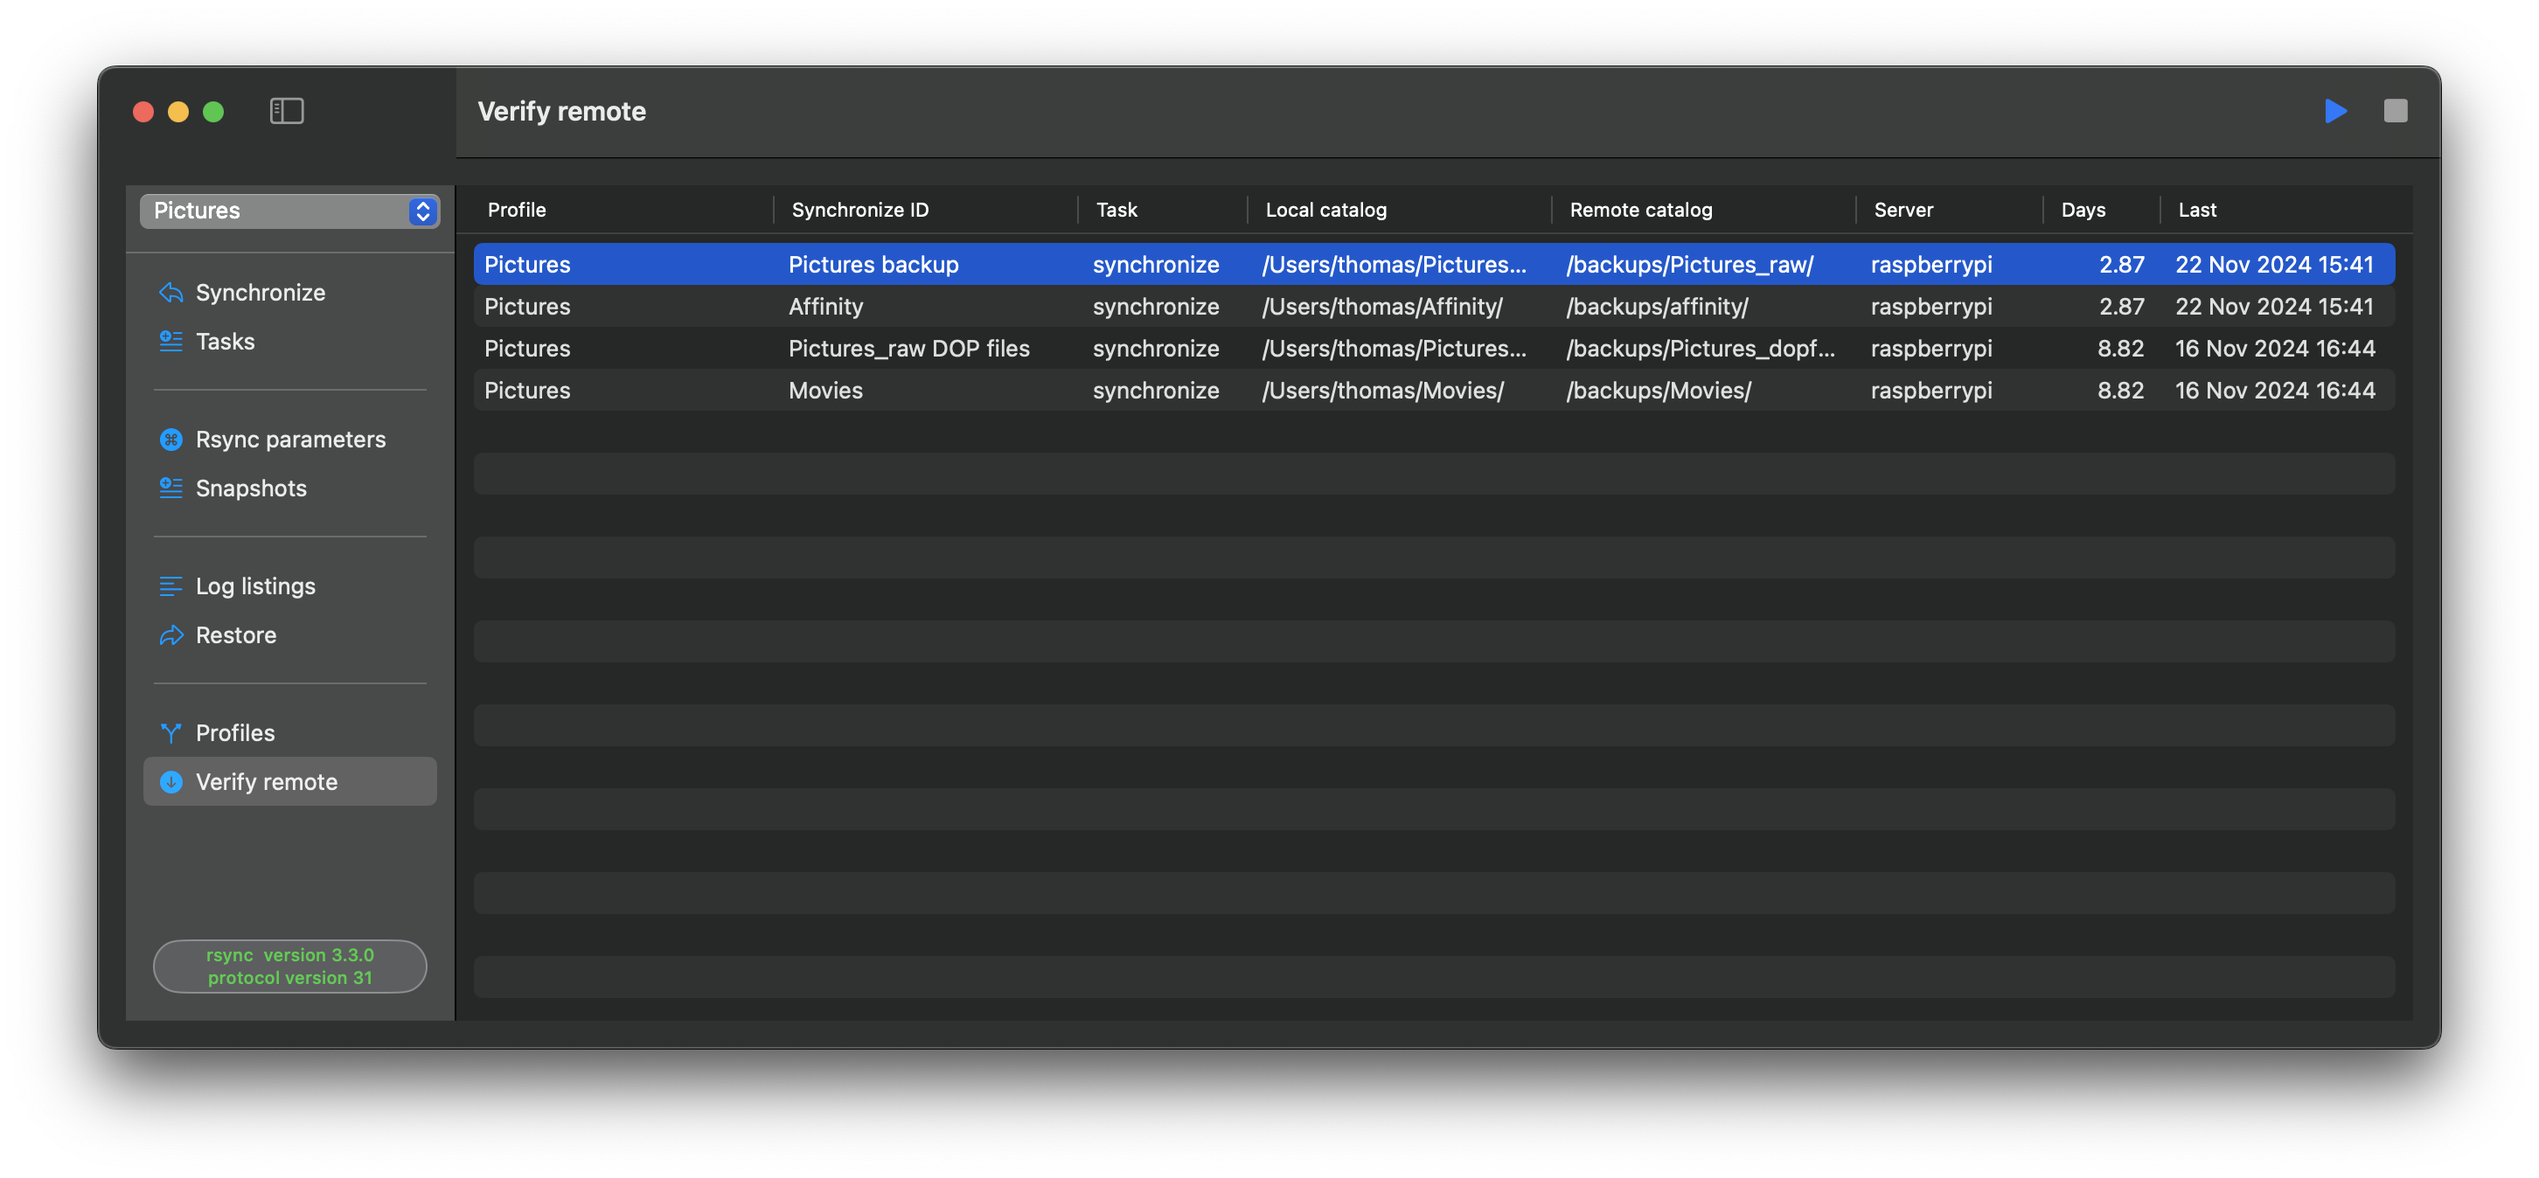
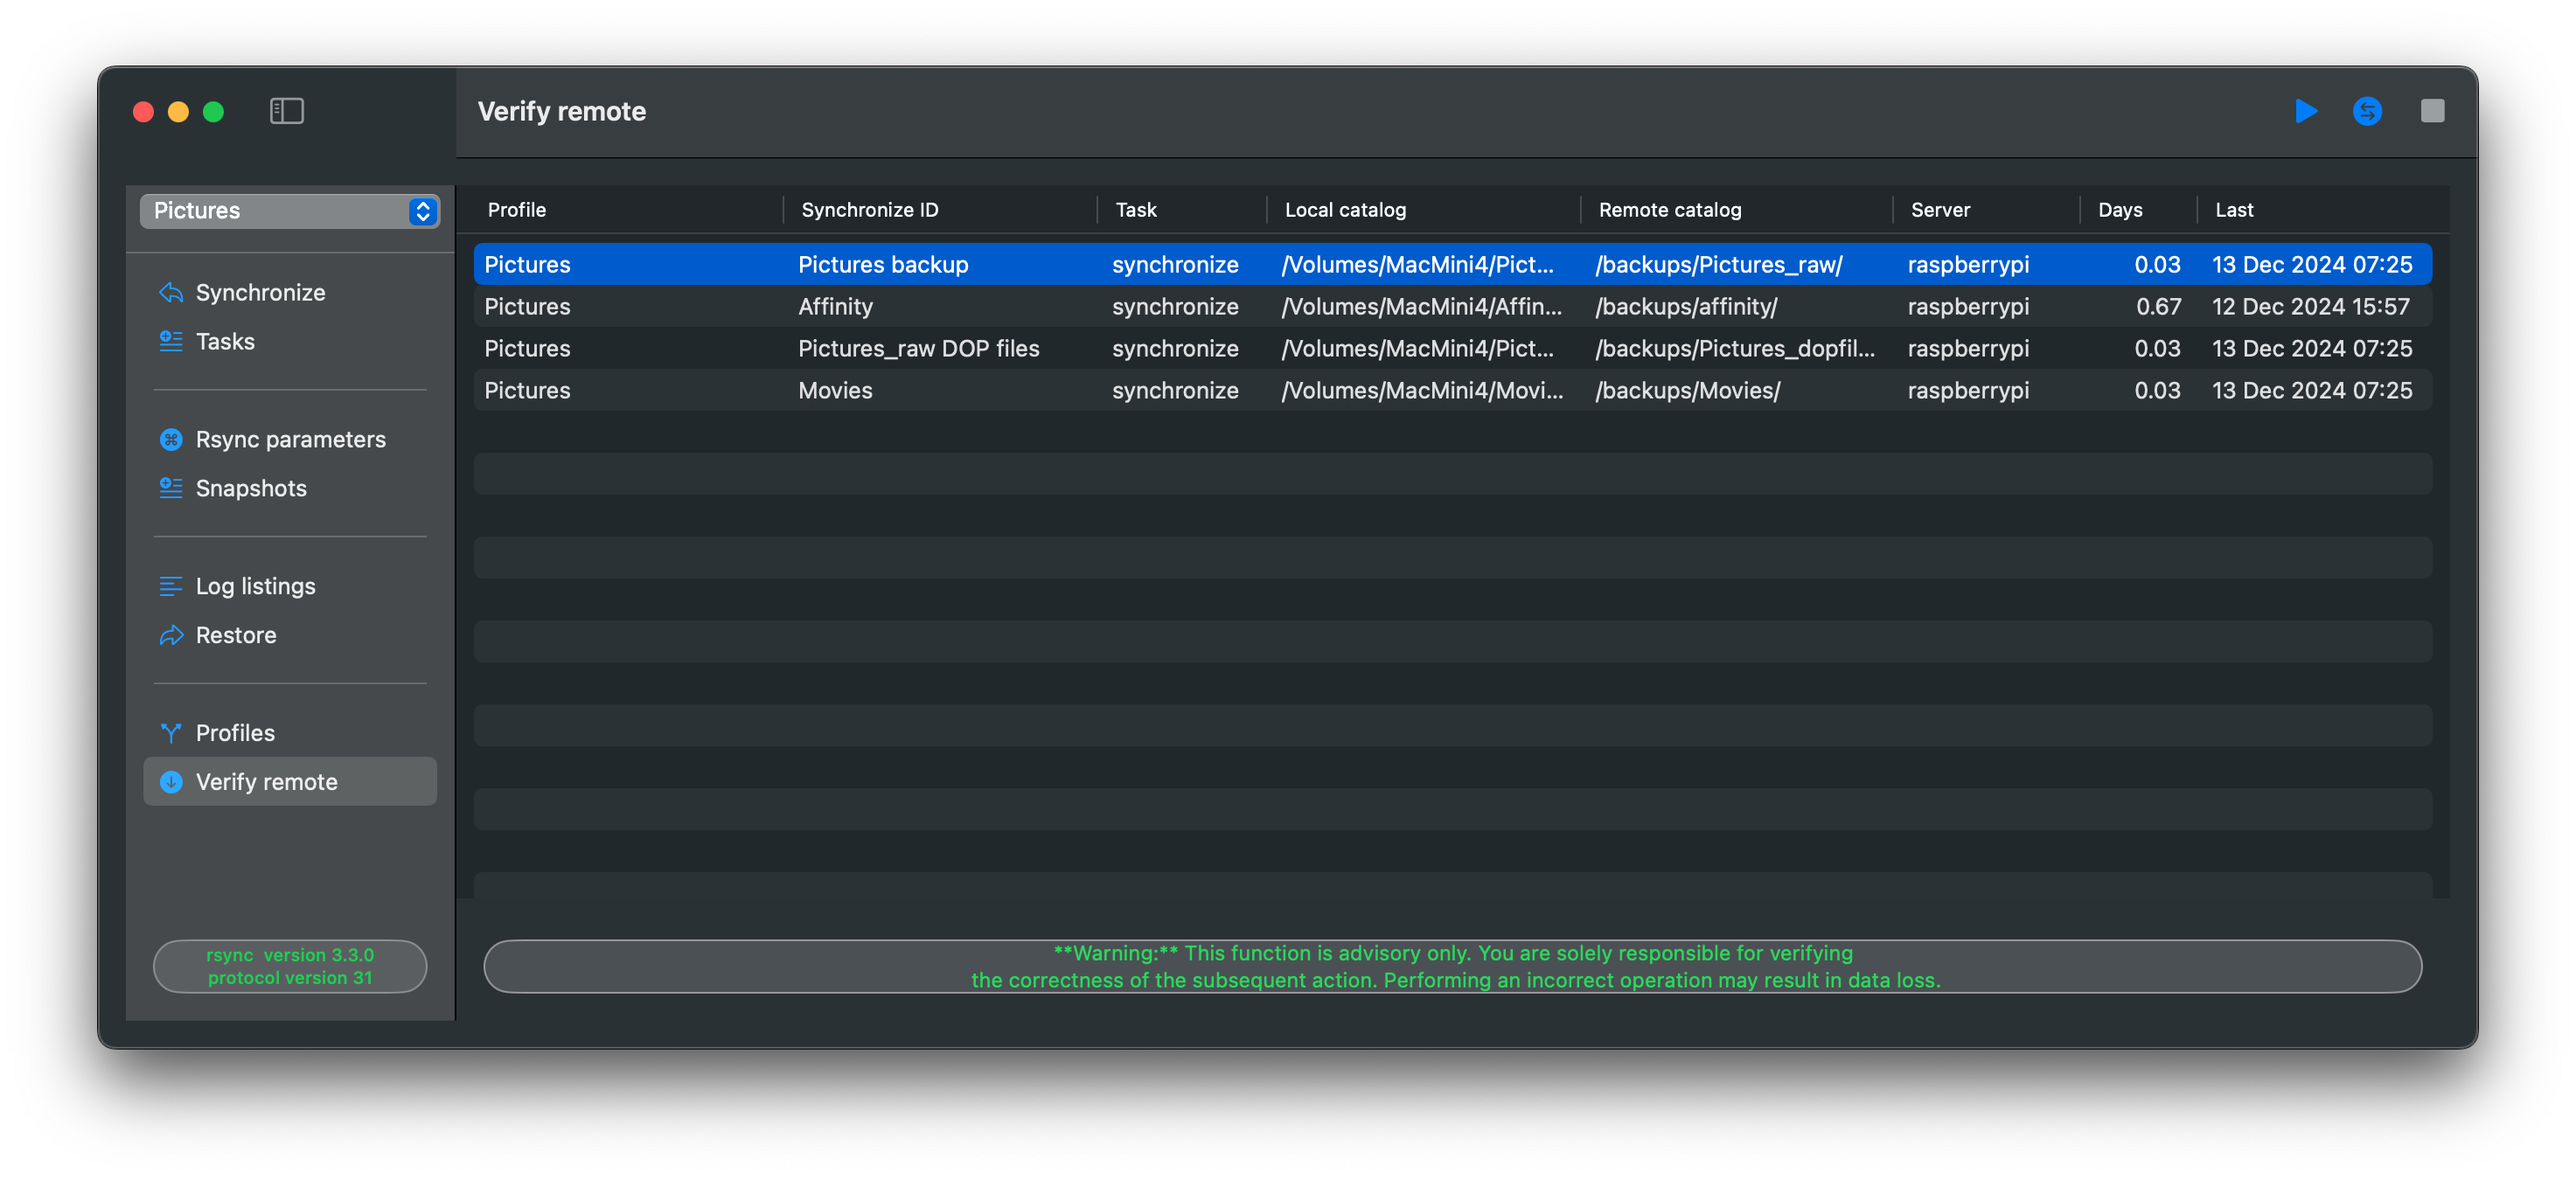
update

diff --git a/content/en/docs/VerifyRemote.md b/content/en/docs/VerifyRemote.md
@@ -6,59 +6,61 @@ tags = ["verify remote"]
 categories = ["synchronize"]
 +++
 
-**Important Note:** The user is solely responsible for determining the appropriate action. RsyncUI provides only advisory guidance, based on a rudimentary evaluation of a push and pull data comparison. It is still in development for the upcoming version 2.2.2.
+{{< alert color="warning" >}}
 
-The function is not intended to be automated. Users must verify their subsequent actions. If the remote destinations are stored on a Git server, such as GitHub or Gitea, regular `git push` and `pull` commands will suffice. Git is a superior tool for version control, but in certain situations, creating a Git repository may not be feasible, and this function may prove useful.
+The user is solely responsible for determining the appropriate action. RsyncUI provides only advisory guidance,
+based on a rudimentary evaluation of a push and pull data comparison.
+
+*It is still in development for the upcoming version 2.2.2.* The following screenshots are from the development.
+
+The function is not intended to be automated. Users must verify their subsequent actions. If the remote destinations are stored on a Git server,
+such as GitHub or Gitea, regular `git push` and `pull` commands will suffice. Git is a superior tool for version control,
+but in certain situations, creating a Git repository may not be feasible, and this function may prove useful.
 
 The verification applies only to remote destinations on servers.
 
+{{< /alert >}}
+
 #### Synchronization of Multiple Macs to a Remote Server
 
-If you are using multiple Macs, as I do, and all Macs synchronize data to the same remote storage, there may be challenges maintaining synchronization and preventing data loss, particularly if the remote storage is not a Git server, such as GitHub.
+If you are using multiple Macs, as I do, and all Macs synchronize data to the same remote storage, there may be challenges maintaining synchronization
+and preventing data loss, particularly if the remote storage is **not** a Git server, such as GitHub and Gitea.
 
-#### Arguments for Rsync
-
-Before appending the following arguments, it is verified if any of these arguments are already present. The modified arguments are intended to modify the rsync command for push and pull to function like a regular file copy, eliminating the `--delete` parameter.
-
-- a parameter `--dry-run` is appendend
-  - rsync execute an estimate run
-- a parameter `--update` is appended
-  - evaluates the timestamp, forces rsync to skip any files which exist on the destination and have a modified time that is newer than the source file
-- a parameter `--exclude=.git/` is appended
-  - git repositories might be huge and it make no sense to include it
-- a parameter `--exclude=.DS_Store` is appended
-  - as above, make no sense til include it
-- the parameter `--delete` is removed
-  - this parameter is a default parameter in RsyncUI to keep source and destination in sync
-
-#### Purpose of the Feature
-
-I have over 3,000 bird photographs (130 GB) from the past four years that are synchronized using RsyncUI to a local remote server at home. New photographs are added, old photographs are deleted, and updates are made to sidecars of the photographs. A sidecar is a small file that stores changes to the raw photograph file.
-
-As long as I was using only one Mac, all updates were made on that Mac. However, with two Macs, I now use both Macs to work on my photographs.
+I have over 3,000 bird photographs (130 GB) from the past four years that are synchronized using RsyncUI to a local remote server at home.
+New photographs are added, old photographs are deleted, and updates are made to sidecars of the photographs.  As long as I was using only one Mac,
+all updates were made on that Mac. However, with two Macs, I now use both Macs to work on my photographs.
 When I synchronize my changes, I need to transfer those changes to my second Mac.
 
 {{< figure src="/images/verify/verify.png" alt="" position="center" style="border-radius: 8px;" >}}
 
-RsyncUI indicates that my local repository is more current. However, this is merely an advisory. I must verify this independently to ensure my certainty. For instance, the file `2024/3_sep_2024/_DSC3486.ARW.dop` serves as a verification example.
-This file is a supplementary file, generated by DxO Photolab, which records modifications to the raw picture file `_DSC3486.ARW`.
+RsyncUI indicates my local repository is in sync with remote. However, this is merely an advisory. I must verify this independently to ensure my certainty.
 
 {{< figure src="/images/verify/verifycompleted.png" alt="" position="center" style="border-radius: 8px;" >}}
 
-#### Copy and paste
+#### Arguments for Rsync
 
-In Rsync parameters, select the "Show parameters" option from the toolbar. After selecting the task, choose "Pull remote" and copy the rsync command. The rsync command includes the `--dry-run` parameter, which should be removed once you have verified the command.
+Before appending the following arguments, it is verified if any of these arguments are already present. The modified arguments are intended to modify the
+rsync command for push and pull to function like a regular file copy, eliminating the `--delete` parameter.
 
-{{< figure src="/images/verify/copyandpaste.png" alt="" position="center" style="border-radius: 8px;" >}}
+- a parameter `--dry-run` is appendend, rsync execute an estimate run
+- a parameter `--update` is appended, evaluates the timestamp, forces rsync to skip any files which exist on the destination and have a modified time that is newer than the source file
+- a parameter `--exclude=.git/` is appended, git repositories might be huge and it make no sense to include it
+- a parameter `--exclude=.DS_Store` is appended, as above, make no sense til include it
+- the parameter `--delete` is removed, this parameter is a default parameter in RsyncUI to keep source and destination in sync
 
-The code for evaluating is not particularly advanced. The last 15 rows, which are statistics from rsync, are removed from both the `pull` and `push` commands. Additionally, all rows with trailing `/` are removed, as these represent catalogs.
-
-The result from the `pull` command is subtracted from the result of the `push` command. Conversely, the `push` command is subtracted from the result of the `pull` command. After both subtractions, the resulting arrays of rows, which are `[String]`, are compared based on the number of rows.
+The code for evaluating is *not particularly advanced*. The last 15 rows, which are statistics from rsync, are removed from both the `pull` and `push` commands.
+Additionally, all rows with trailing `/` are removed, as these represent catalogs. The result from the `pull` command is subtracted from the result
+of the `push` command. Conversely, the `push` command is subtracted from the result of the `pull` command. After both subtractions,
+the resulting arrays of rows, which are `[String]`, are compared based on the number of rows.
 
 The outcome is as follows:
 
-- If `pull` has more data than `push`, it is likely that the remote repository is more up-to-date than the local repository.
+- If `pull` has more data than `push`, it is *likely* that the remote repository is more up-to-date than the local repository.
 - If `push` has more data than `pull`, it is likely that the local repository is more up-to-date than the remote repository.
 - If the number of rows is equal, it is likely that the local repository is more up-to-date than the remote repository.
 
-The code below demonstrates the results of both rsync commands, which were copied from RsyncUI and pasted into a terminal view. The parameter `--update` is crucial, as it checks the timestamps. This parameter is not automatically included in the standard synchronization tasks within RsyncUI.
+#### Push or pull
+
+There is a new view for either *pull* or *push* data.
+
+{{< figure src="/images/verify/pushorpull.png" alt="" position="center" style="border-radius: 8px;" >}}
